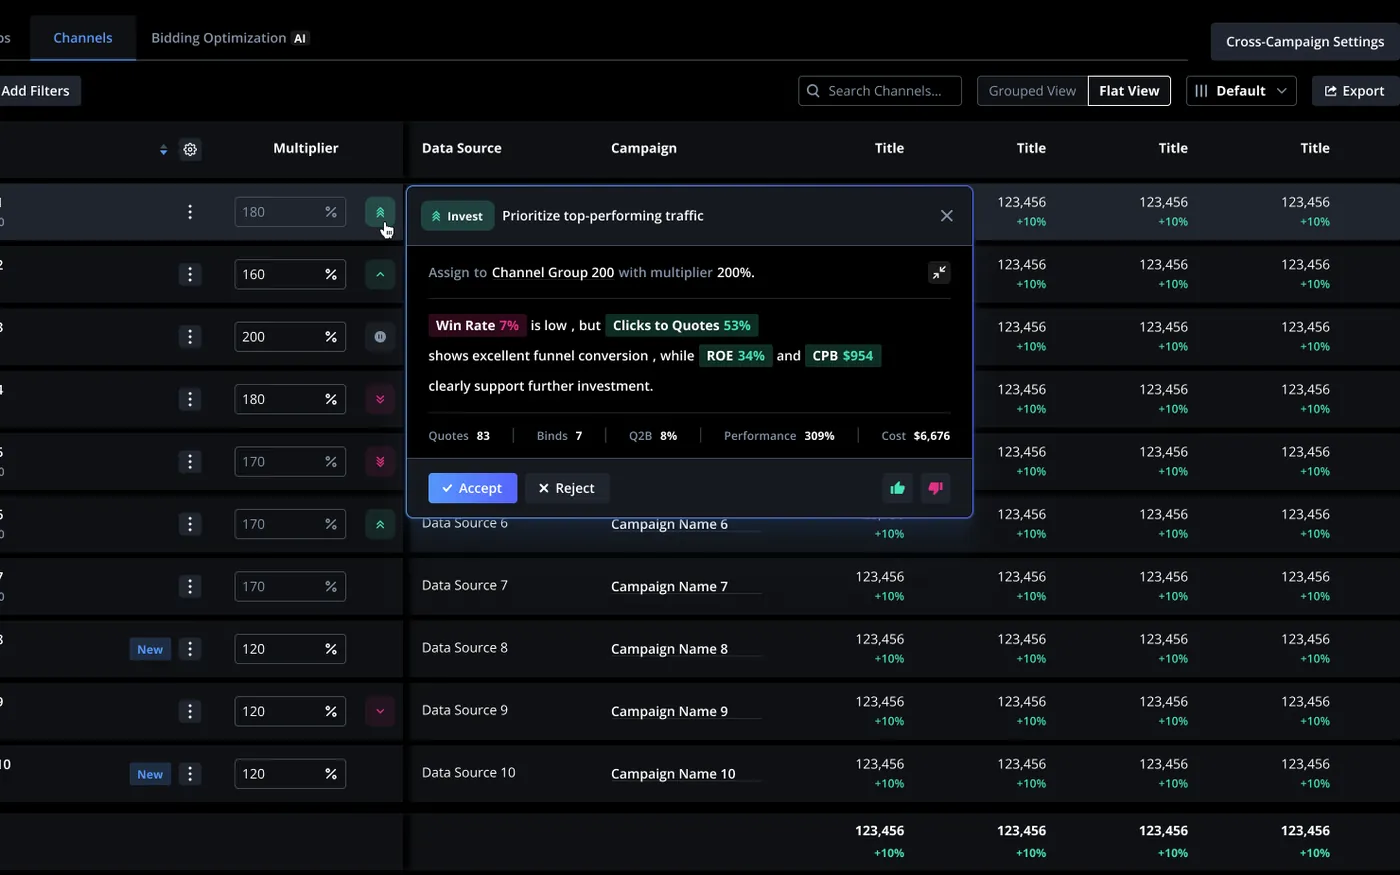
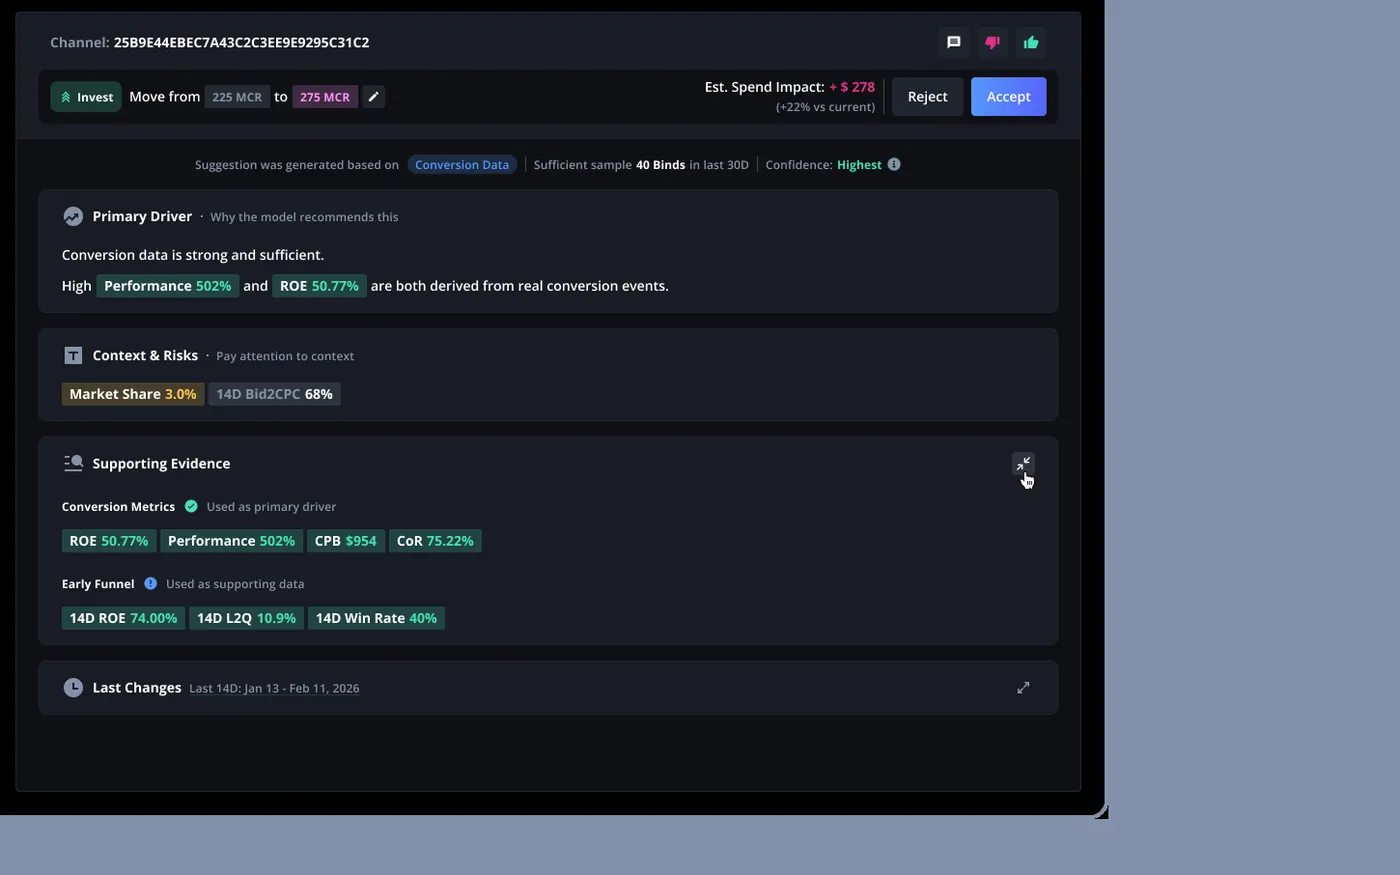
Case covers: light stage in light theme, new focal crops per case
Light theme gets its own stage in the card's tone (dark dot grid, green
haze, shot as an object with a thin frame and soft shadow). New crops:
Channel insight panel, Toast + toast.md, Price test with sweet point and
Apply, Cross-Campaign Bulk Actions menu, Inbox board with booking card.

Claude-Session: https://claude.ai/code/session_01TEL8xxv6KETVuU8dRx9DQt

diff --git a/prototype/work/index.html b/prototype/work/index.html
@@ -368,7 +368,7 @@ a, button, .case-card { touch-action: manipulation; -webkit-tap-highlight-color:
           <div class="cc-metric"><b>Weeks → Hours</b><span>detection time</span></div>
           <a class="cc-view" href="../case/channel-analysis/">View case <span class="arr" aria-hidden="true">→</span></a>
         </div>
-        <div class="cc-thumb cover"><img src="../case/channel-analysis/assets/card-cover.webp" alt="Channel Analysis: an Invest insight popover with the reasons and Accept or Reject" width="1400" height="875" loading="lazy" decoding="async"></div>
+        <div class="cc-thumb cover"><img src="../case/channel-analysis/assets/card-cover.webp" alt="Channel Analysis insight panel: an Invest suggestion to move the multiplier, Accept or Reject, and the primary driver behind it" width="1400" height="875" loading="lazy" decoding="async"></div>
       </article>
 
       <article class="case-card" data-tags="Design System,AI,B2B" id="case-ds">
@@ -379,7 +379,7 @@ a, button, .case-card { touch-action: manipulation; -webkit-tap-highlight-color:
           <div class="cc-metric"><b>15 → 2</b><span>design questions per feature</span></div>
           <a class="cc-view" href="../case/design-system/">View case <span class="arr" aria-hidden="true">→</span></a>
         </div>
-        <div class="cc-thumb cover"><img src="../case/design-system/assets/card-cover.webp" alt="Toast component in Figma with its three contracts: the Figma description, toast.md in the repo and the component tokens" width="1400" height="875" loading="lazy" decoding="async"></div>
+        <div class="cc-thumb cover"><img src="../case/design-system/assets/card-cover.webp" alt="Toast component with its contracts: toast.md states and dismiss behaviour, and the component tokens" width="1400" height="875" loading="lazy" decoding="async"></div>
       </article>
 
       <article class="case-card" data-tags="Optimization,AI,Self-service,B2B,InsurTech/Fintech" id="case-price">
@@ -390,7 +390,7 @@ a, button, .case-card { touch-action: manipulation; -webkit-tap-highlight-color:
           <div class="cc-metric"><b>$8M → $30M+</b><span>monthly media investment</span><span class="chip accent">7% MoM</span></div>
           <a class="cc-view" href="../case/price-exploration/">View case <span class="arr" aria-hidden="true">→</span></a>
         </div>
-        <div class="cc-thumb cover"><img src="../case/price-exploration/assets/card-cover.webp" alt="Price Exploration interface: a price test with testing points and the sweet point tooltip" width="1400" height="875" loading="lazy" decoding="async"></div>
+        <div class="cc-thumb cover"><img src="../case/price-exploration/assets/card-cover.webp" alt="Price Exploration: a bidding test for ad group AL with the sweet point $1.50 to $1.80, Apply, and the expected win rate curve" width="1400" height="875" loading="lazy" decoding="async"></div>
       </article>
 
       <article class="case-card" data-tags="Workflow,Infra,B2B" id="case-cross">
@@ -401,7 +401,7 @@ a, button, .case-card { touch-action: manipulation; -webkit-tap-highlight-color:
           <div class="cc-metric"><b>Hours → Min</b><span>bulk updates</span></div>
           <a class="cc-view" href="../case/cross-campaign/">View case <span class="arr" aria-hidden="true">→</span></a>
         </div>
-        <div class="cc-thumb cover"><img src="../case/cross-campaign/assets/card-cover.webp" alt="Campaign edit panel: Include and Exclude modifiers, one of them inherited from Cross-Campaign Settings" width="1400" height="875" loading="lazy" decoding="async"></div>
+        <div class="cc-thumb cover"><img src="../case/cross-campaign/assets/card-cover.webp" alt="Ad Groups table with four groups selected and the Bulk Actions menu open on Set Price Bounds" width="1400" height="875" loading="lazy" decoding="async"></div>
       </article>
 
       <div class="group-divider" id="camilyoDivider" role="separator"><span>Earlier · Camilyo</span></div>
@@ -414,7 +414,7 @@ a, button, .case-card { touch-action: manipulation; -webkit-tap-highlight-color:
           <div class="cc-metric"><b>8 → 1</b><span>request types, one thread</span></div>
           <a class="cc-view" href="../case/inbox/">View case <span class="arr" aria-hidden="true">→</span></a>
         </div>
-        <div class="cc-thumb cover"><img src="../case/inbox/assets/card-cover.webp" alt="Booking request card in an Inbox thread, followed by its events: accepted, reassigned, paid and completed" width="1400" height="875" loading="lazy" decoding="async"></div>
+        <div class="cc-thumb cover"><img src="../case/inbox/assets/card-cover.webp" alt="Inbox board: business types, a list of customer requests, and a booking request card with Decline and Accept" width="1400" height="875" loading="lazy" decoding="async"></div>
       </article>
 
       <article class="case-card" data-tags="Self-service,B2B,B2C" data-group="camilyo" id="case-booking">

diff --git a/prototype/shared/case-cover.css b/prototype/shared/case-cover.css
@@ -1,12 +1,16 @@
 /* Case card covers (Home + Work): one 16:10 frame on a dark "stage" with a dot grid.
    The screenshot (assets/card-cover.webp, pre-cropped 16:10 around the case's focal point) is enlarged,
-   offset from the top-left corner and bleeds off the right and bottom edges. Stage stays dark in both themes, like a screen. */
+   offset from the top-left corner and bleeds off the right and bottom edges. Light theme: a light stage in the card's tone,
+   the shot lies on it as an object (thin frame + soft shadow). */
 .cover { position: relative; aspect-ratio: 16 / 10; overflow: hidden; border: 1px solid var(--border); border-radius: var(--radius-sm);
   background: radial-gradient(120% 90% at 0 0, rgba(131,222,114,.10), transparent 60%),
               radial-gradient(circle, rgba(240,242,234,.10) 1px, transparent 1.2px) 0 0 / 14px 14px, #0e100e; }
-[data-theme="light"] .cover { border-color: #101310; }
+[data-theme="light"] .cover { border-color: var(--border);
+  background: radial-gradient(120% 90% at 0 0, rgba(78,168,50,.14), transparent 60%),
+              radial-gradient(circle, rgba(20,23,20,.16) 1px, transparent 1.2px) 0 0 / 14px 14px, #e9ece2; }
 .cover img { position: absolute; left: 8%; top: 10%; width: 118%; height: auto; max-width: none; display: block;
   border-radius: 8px 0 0 0; border: 1px solid rgba(255,255,255,.10); border-right: 0; border-bottom: 0;
   box-shadow: 0 20px 50px rgba(0,0,0,.45); transition: transform .45s cubic-bezier(.2,1,.3,1); }
+[data-theme="light"] .cover img { border-color: rgba(16,19,16,.16); box-shadow: 0 22px 44px -14px rgba(20,24,16,.42), 0 2px 6px rgba(20,24,16,.10); }
 .case-card:is(:hover, :focus-within) .cover img { transform: translate(-2.5%, -3%); }
 @media (prefers-reduced-motion: reduce) { .cover img { transition: none; } .case-card:is(:hover, :focus-within) .cover img { transform: none; } }
